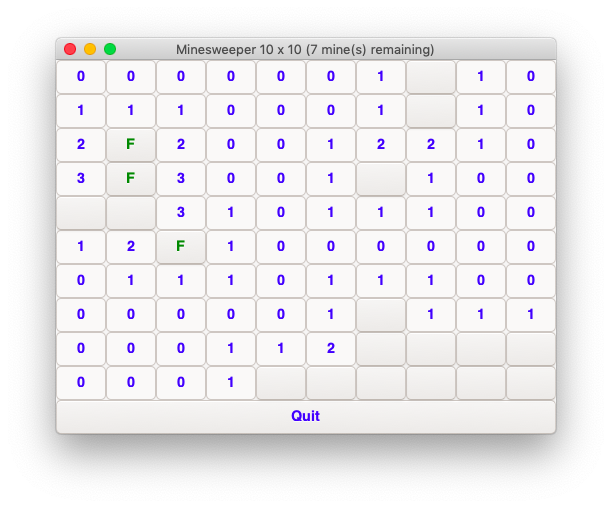
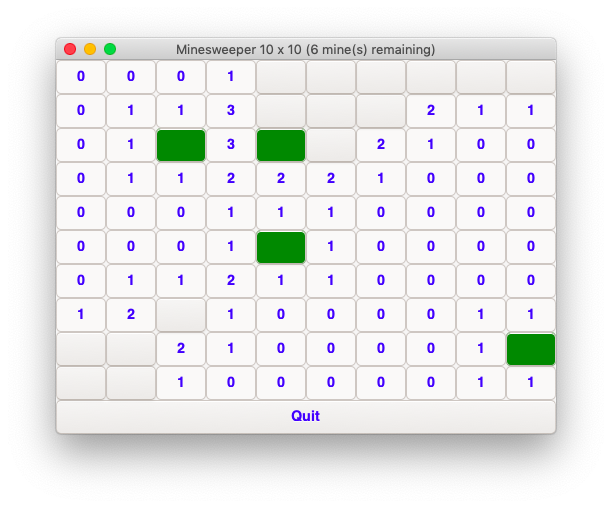
replaced FLAG/MINE with colours (GUI); keep flags when lost

diff --git a/gui/gui.c b/gui/gui.c
@@ -15,13 +15,10 @@ static int mines_remaining;
 
 static const char *markup_format = "<span foreground=\"%s\"><big><b>%s</b></big></span>";
 
-// updates the label text and colour of buttons[i]
-static void update_button_label(int i, char new_label, const char *colour) {
-	GtkWidget *label = gtk_bin_get_child(GTK_BIN(buttons[i]));
-	gchar *label_text = g_strdup_printf("%c", new_label);
+// updates the colour and text of label
+static void update_markup(GtkWidget *label, const char *colour, const gchar *label_text) {
 	gchar *markup = g_markup_printf_escaped(markup_format, colour, label_text);
 	gtk_label_set_markup(GTK_LABEL(label), markup);
-	g_free(label_text);
 	g_free(markup);
 }
 
@@ -44,9 +41,14 @@ void click(GtkWidget *widget, GdkEventButton *event, gpointer user_data) {
 
 				// next add proper markups
 				if (data->b->grid[i] == MINE) {
-					update_button_label(i, data->b->grid[i], "red");
-				} else if (data->b->grid[i] != FLAG) {
-					update_button_label(i, data->b->grid[i], "blue");
+					gtk_widget_set_name(buttons[i], "mine");
+				} else if (data->b->grid[i] == FLAG) {
+					gtk_widget_set_name(buttons[i], "flag");
+				} else {
+					GtkWidget *label = gtk_bin_get_child(GTK_BIN(buttons[i]));
+					gchar *label_text = g_strdup_printf("%c", data->b->grid[i]);
+					update_markup(label, "blue", label_text);
+					g_free(label_text);
 				}
 			}
 		}
@@ -55,15 +57,13 @@ void click(GtkWidget *widget, GdkEventButton *event, gpointer user_data) {
 		if (game_won(data->b)) {
 			// update quit button markup
 			GtkWidget *label = gtk_bin_get_child(GTK_BIN(quit_button));
-			const gchar *label_text = "Well done!";
-			gchar *markup = g_markup_printf_escaped(markup_format, "green", label_text);
-			gtk_label_set_markup(GTK_LABEL(label), markup);
-			g_free(markup);
+			update_markup(label, "green", "Well done!");
 
 			// add proper markups and make buttons unclickable
 			for (int i = 0; i < grid_size; i++) {
-				update_button_label(i, data->b->grid[i], 
-					data->b->grid[i] == FLAG ? "green" : "blue");
+				if (data->b->grid[i] == FLAG) {
+					gtk_widget_set_name(buttons[i], "flag");
+				}
 				gtk_widget_set_sensitive(buttons[i], FALSE);
 			}
 
@@ -71,15 +71,13 @@ void click(GtkWidget *widget, GdkEventButton *event, gpointer user_data) {
 		} else if (game_lost(data->b)) {
 			// update quit button markup
 			GtkWidget *label = gtk_bin_get_child(GTK_BIN(quit_button));
-			const gchar *label_text = "Game Over";
-			gchar *markup = g_markup_printf_escaped(markup_format, "red", label_text);
-			gtk_label_set_markup(GTK_LABEL(label), markup);
-			g_free(markup);
+			update_markup(label, "red", "Game Over");
 
 			// add proper markups and make buttons unclickable
 			for (int i = 0; i < grid_size; i++) {
-				update_button_label(i, data->b->grid[i], 
-					data->b->grid[i] == MINE ? "red" : "blue");
+				if (data->b->grid[i] == MINE) {
+					gtk_widget_set_name(buttons[i], "mine");
+				}
 				gtk_widget_set_sensitive(buttons[i], FALSE);
 			}
 
@@ -91,12 +89,13 @@ void click(GtkWidget *widget, GdkEventButton *event, gpointer user_data) {
 
 		if (flag(data->b, data->x, data->y)) {
 			int i = (data->y - 1) * data->b->width + data->x - 1;
-			update_button_label(i, data->b->grid[i], "green");
 
 			// update window title
 			if (data->b->grid[i] == FLAG) {
+				gtk_widget_set_name(buttons[i], "flag");
 				mines_remaining--;
 			} else {
+				gtk_widget_set_name(buttons[i], "none");
 				mines_remaining++;
 			}
 			const gchar *title = g_markup_printf_escaped("Minesweeper %d x %d (%d mine(s) remaining)", 
@@ -159,6 +158,18 @@ void activate(GtkApplication *app, gpointer user_data) {
 	const gchar *title = g_markup_printf_escaped("Minesweeper %d x %d (%d mine(s) remaining)", 
 		b->width, b->height, mines_remaining);
 	gtk_window_set_title(GTK_WINDOW(window), title);
+
+	// add CSS button colours: MINE = red, FLAG = green, none = none
+	GtkCssProvider *provider = gtk_css_provider_new();
+	GdkDisplay *display = gdk_display_get_default();
+	GdkScreen *screen = gdk_display_get_default_screen(display);
+	gtk_style_context_add_provider_for_screen(screen, GTK_STYLE_PROVIDER(provider), GTK_STYLE_PROVIDER_PRIORITY_USER);
+	gtk_css_provider_load_from_data(
+		GTK_CSS_PROVIDER(provider), 
+		"#flag { background:green } #mine { background:red }", 
+		-1, 
+		NULL
+	);
 
 	/* Now that we are done packing our widgets, we show them all
 	 * in one go, by calling gtk_widget_show_all() on the window.

diff --git a/src/minesweeper.c b/src/minesweeper.c
@@ -93,11 +93,14 @@ bool reveal(struct board *b, int x, int y) {
 	if (*tile != UNREVEALED || *tile == FLAG) {
 		return false;
 	} else if (is_mine(b, x, y)) {
-		// a MINE is revealed - game is lost so show the mines
+		// a MINE is revealed - game is lost - show the remaining mines
 		for (int j = 0; j < b->num_mines; j++) {
 			int x1 = b->mines[j].x;
 			int y1 = b->mines[j].y;
-			b->grid[(y1 - 1) * b->width + x1 - 1] = MINE;
+			char *tile = &(b->grid)[(y1 - 1) * b->width + x1 - 1];
+			if (*tile != FLAG) {
+				*tile = MINE;
+			}
 		}
 		return true;
 	}
